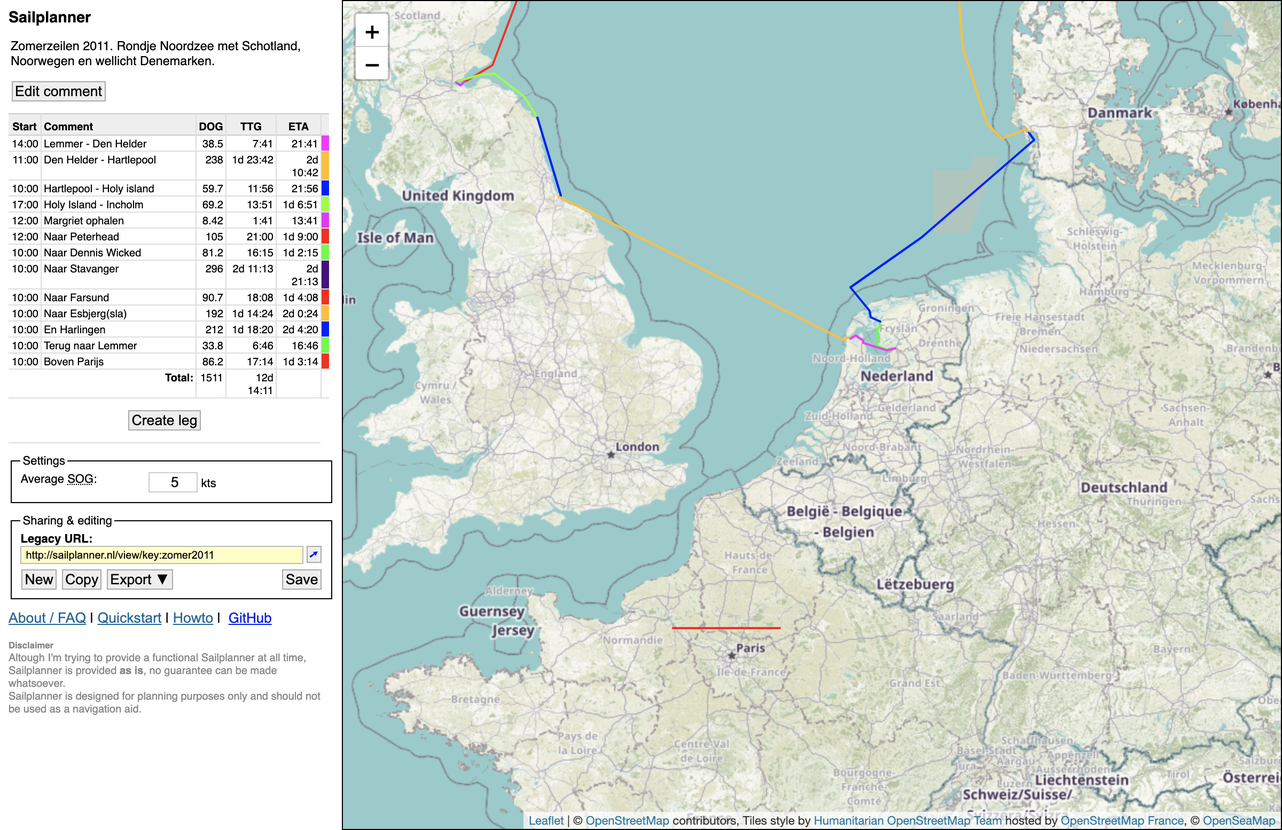
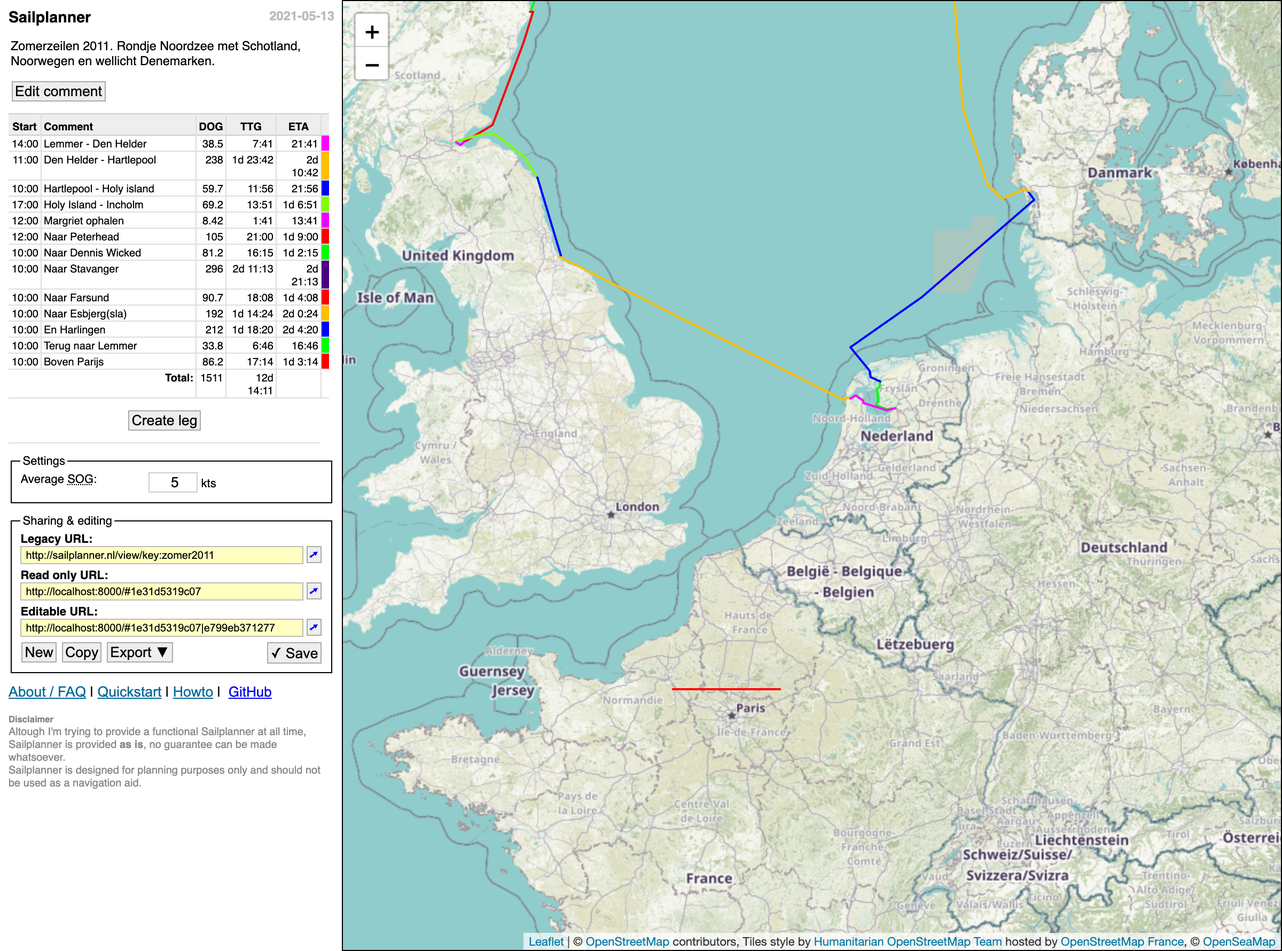
Fix hidden save button after saving (incorrect state of canEdit)

diff --git a/src/store.js b/src/store.js
@@ -16,6 +16,10 @@ const createEmpty = () => ({
 
 export const canEdit = writable(true);
 export const isDirty = writable(true);
+
+canEdit.subscribe((s) => {
+    console.log(s);
+});
 export const legs = writable([]);
 export const options = writable(createEmpty());
 
@@ -56,14 +60,15 @@ export const load = async (key, authToken) => {
         url += `&authToken=${authToken}`;
     }
 
-    const data = await fetch(url).then((response) => {
+    const data = await fetch(url).then(async (response) => {
         if (response.status == 404) {
             return fetch(`http://sailplanner.nl/getLegs/key:${key}`)
                 .then((response) => response.json())
                 .then((data) => transformFromLegacy(data));
         } else {
-            let json = response.json();
+            let json = await response.json();
             json.isDirty = false;
+            console.log(json);
             json.canEdit = json.authToken || json.authToken === null;
             return json;
         }

diff --git a/wdio/test-interaction.js b/wdio/test-interaction.js
@@ -110,8 +110,12 @@ describe('Sailplanner.nl', () => {
 
             (await $('button=Save leg')).click();
 
-            await (await page.saveButton).click();
+            const saveButton = await page.saveButton;
+            await saveButton.click();
             await browser.saveScreenshot('./screenshots/zomer2011-forked.png');
+
+            expect(saveButton).toBeVisible();
+            expect(saveButton).toHaveTextContaining('✓');
         });
     });
     describe('Exporting', async () => {
@@ -121,7 +125,7 @@ describe('Sailplanner.nl', () => {
             await exportButton.moveTo();
             await (await $('div=' + button)).click();
 
-            await browser.pause(250);
+            await browser.pause(100);
             return fs.readFileSync(`${global.downloadDir}sailplanner.${ext}`, 'utf-8');
         };
         it('to GPX', async () => {

diff --git a/src/legacy.js b/src/legacy.js
@@ -10,6 +10,7 @@ function transformFromLegacy(old) {
 
     let data = {
         legacyUrl: old.url.replace('/', '/'),
+        canEdit: false,
         comment: options.comment,
         settings: {
             average: options.average || 5,
